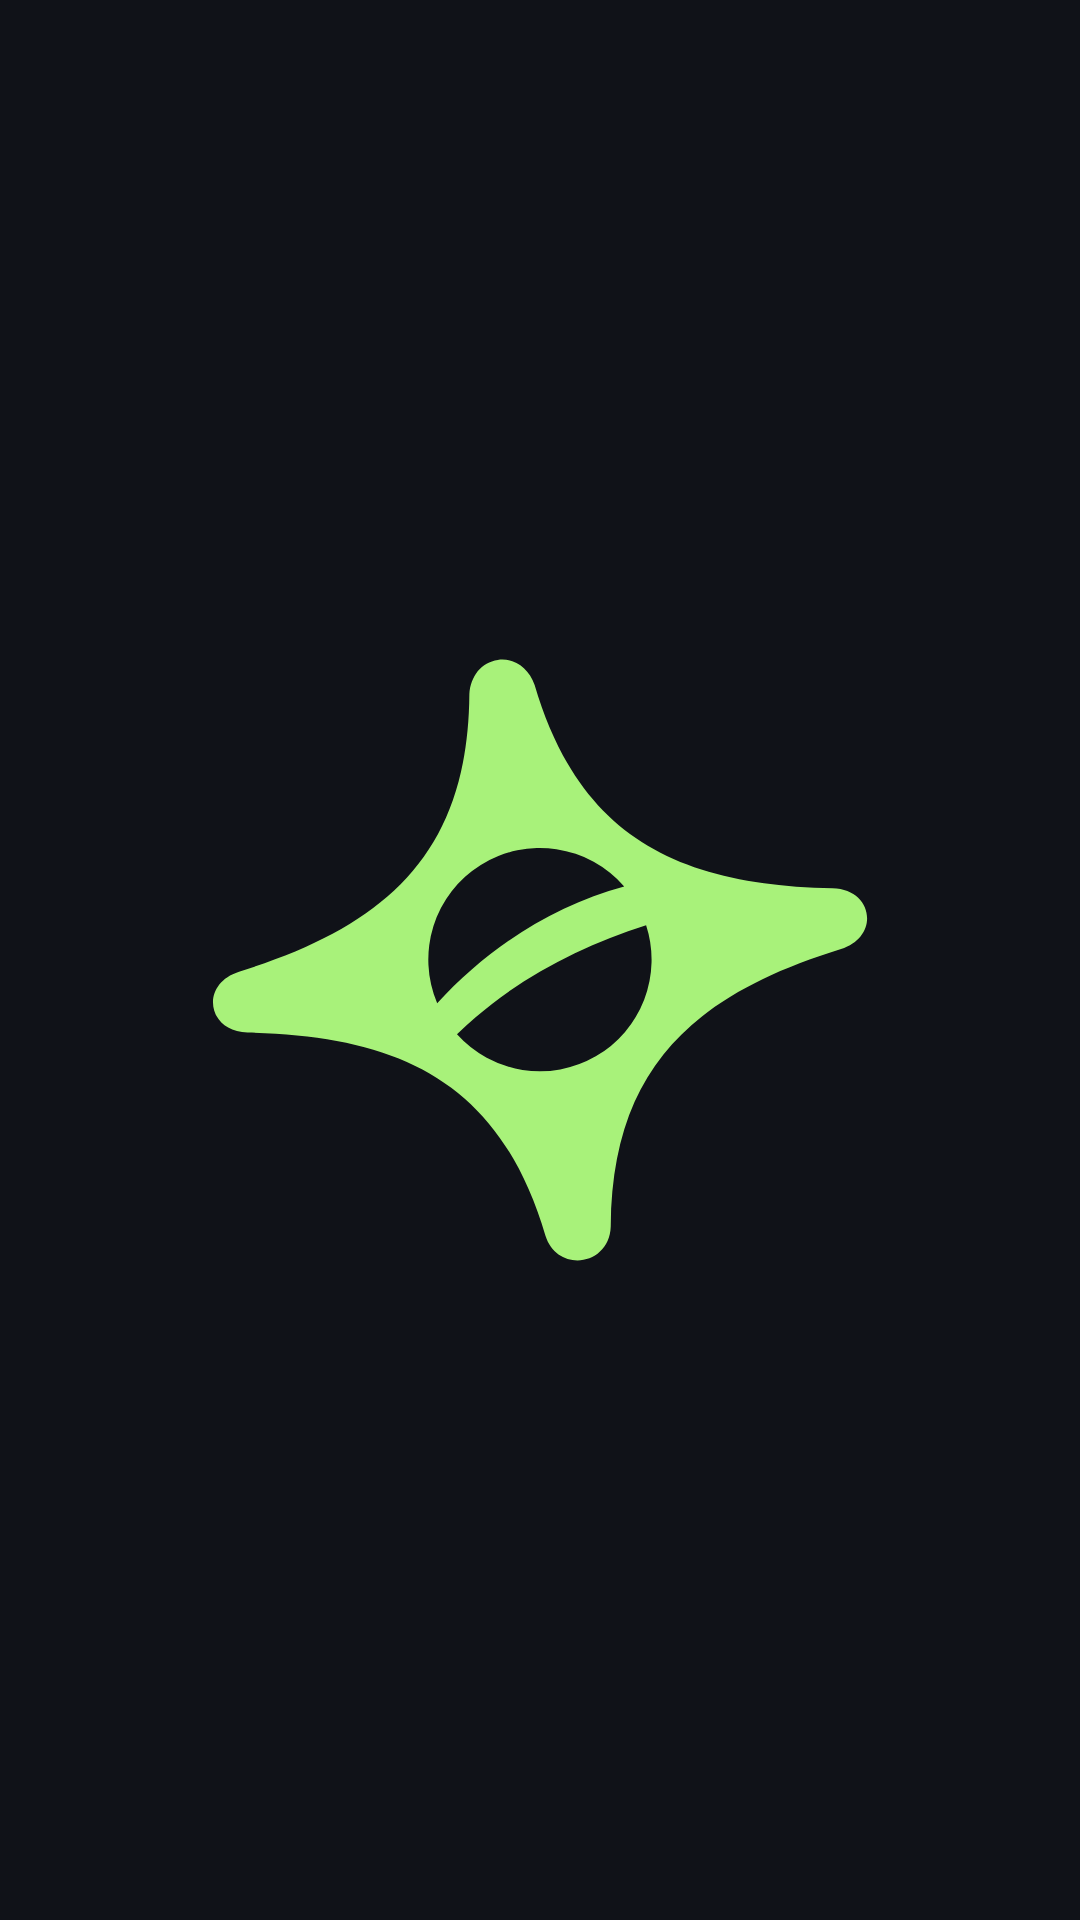
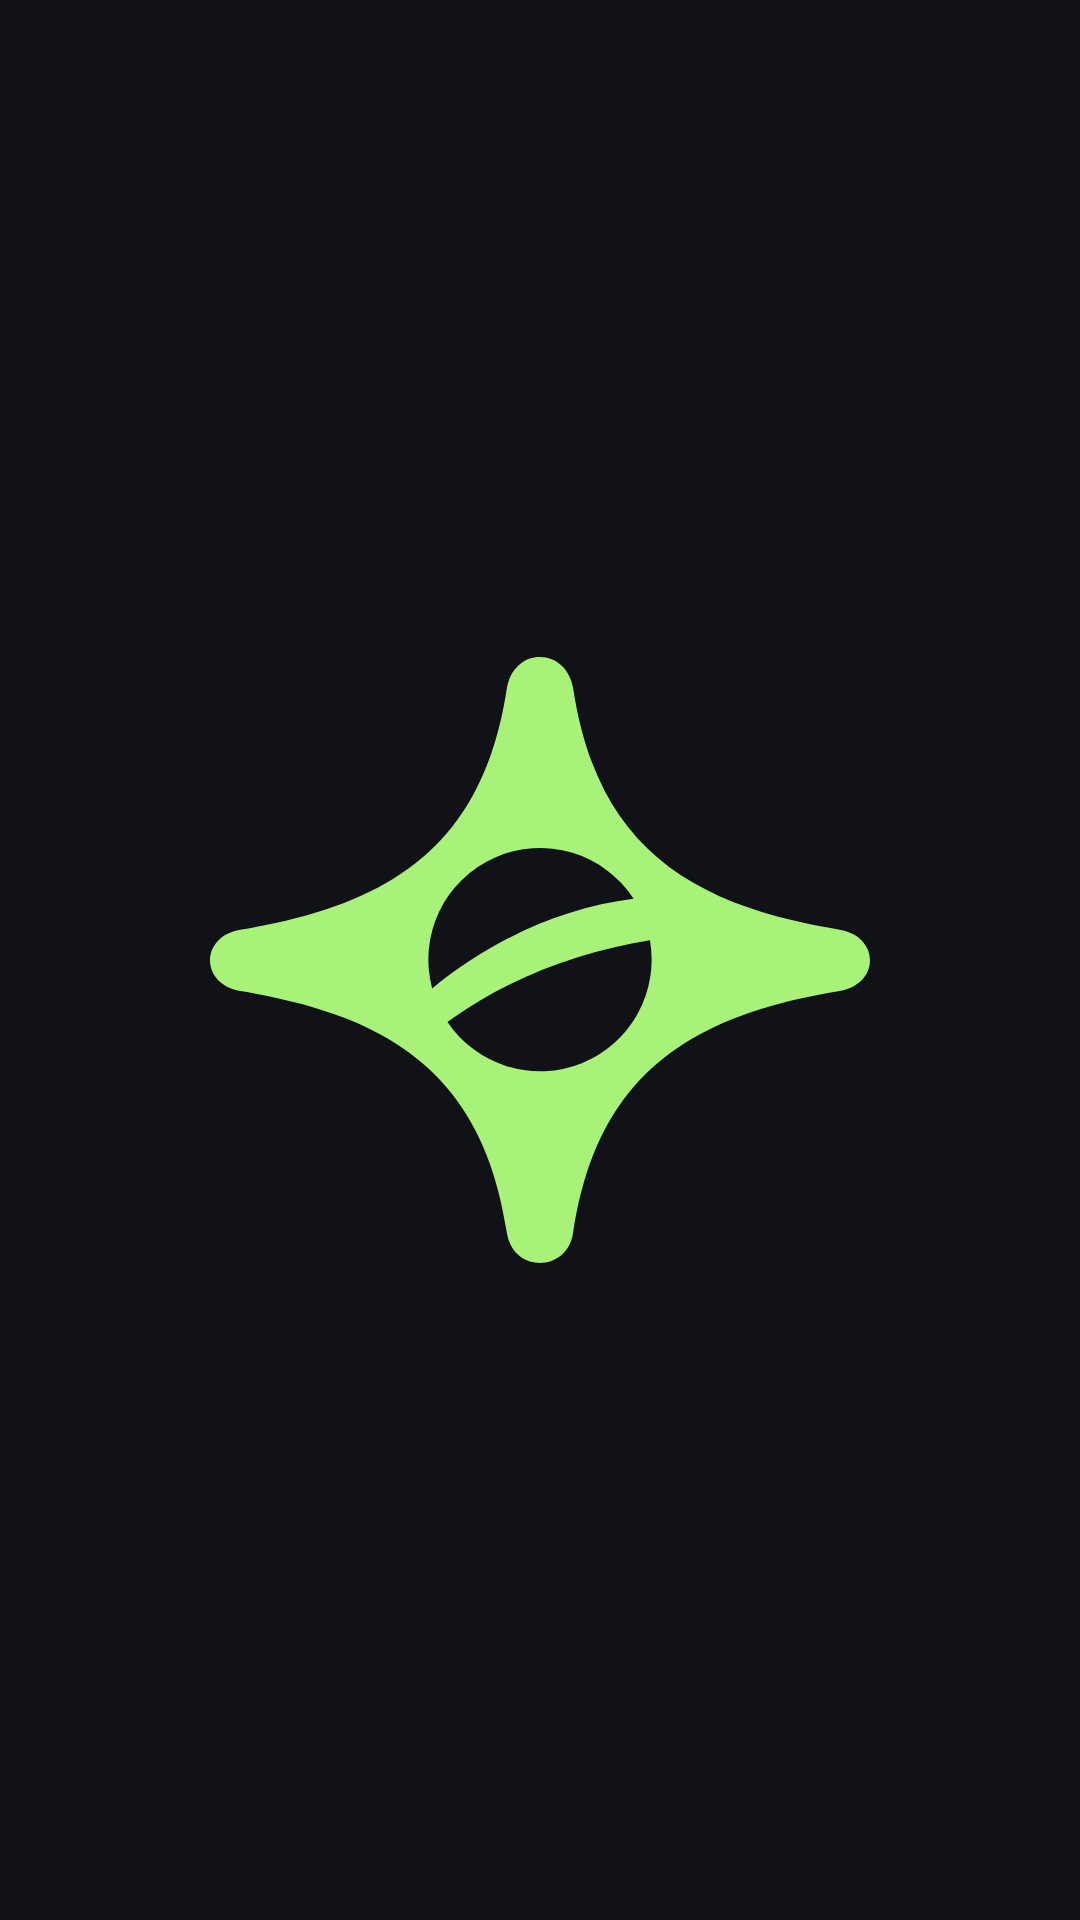
Pack de perfil: estrela sempre na posição oficial, sem rotação
Claude-Session: https://claude.ai/code/session_01JSPShJUPDW1vueXQWvygsd

diff --git a/projects/02-perfis-redes/gera.py b/projects/02-perfis-redes/gera.py
@@ -19,10 +19,11 @@ ESTRELA_D = ("M 500 95 C 522 95 539 111 544 135 C 575 344 696 426 900 459 C 954 
              "M 646.736 473.126 A 149 149 0 0 1 376.456 582.319 C 457 523 552 489 646.736 473.126 Z")
 # Caixa da forma: x 59.5..940.5, y 95..904 -> centro (500, 499.5), 881 x 809.
 
-def estrela(cx, cy, larg, cor, rot=0, op=1):
-    """Estrela centrada em (cx, cy) com largura 'larg'."""
+def estrela(cx, cy, larg, cor, op=1):
+    """Estrela centrada em (cx, cy) com largura 'larg'. Sempre na posicao do SVG oficial:
+    a marca nao se gira (correcao do usuario, 10/nov/2026)."""
     s = larg / 881
-    return (f'<g transform="translate({cx} {cy}) rotate({rot}) scale({s}) translate(-500 -499.5)" opacity="{op}">'
+    return (f'<g transform="translate({cx} {cy}) scale({s}) translate(-500 -499.5)" opacity="{op}">'
             f'<path d="{ESTRELA_D}" fill="{cor}" fill-rule="evenodd"/></g>')
 
 def arcos(cx, cy, r0, passo, n, cor, op, larg=2):
@@ -63,7 +64,7 @@ peca("instagram-avatar", A, A, pagina(A, A, ACE,
      arcos(A, A, 260, 70, 12, FLO, .16) + estrela(540, 540, 600, GRA)))
 # TikTok: grafite, estrela verde-limao levemente girada, topografia em limao.
 peca("tiktok-avatar", A, A, pagina(A, A, GRA,
-     topografia(A, A, ACE, .10, n=12, passo=52, x0=.05) + estrela(540, 540, 600, ACE, rot=-8)))
+     topografia(A, A, ACE, .10, n=12, passo=52, x0=.05) + estrela(540, 540, 600, ACE)))
 # LinkedIn: floresta, estrela branca, grade tecnica. Logo da pagina: 400x400.
 L = 400
 peca("linkedin-logo", L, L, pagina(L, L, FLO,
@@ -85,13 +86,13 @@ p{font-weight:400;font-size:15px;line-height:1.3}
 peca("linkedin-capa", W, H, pagina(W, H, GRA,
      grade(W, H, 24, SUP, .045, 1)
      + painel(FLO, ACE, .14)
-     + estrela(1010, 96, 250, ACE, rot=-8),
+     + estrela(1010, 96, 250, ACE),
      f"""<div class="txt"><h1 style="color:{SUP}">Toda a sua operação<br>de <span class="pil" style="background:{ACE};color:{GRA}">licitações</span></h1>
 <p style="color:#B8C5BC">Venda para o governo. Saiba o que fazer em cada etapa.</p></div>""", CSS_CAPA), escalas=(1, 2))
 # Variante de lancamento, para trocar ate 19/dez.
 peca("linkedin-capa-lancamento", W, H, pagina(W, H, ACE,
      painel(GRA, ACE, .16)
-     + estrela(1010, 96, 250, ACE, rot=-8),
+     + estrela(1010, 96, 250, ACE),
      f"""<div class="txt"><h1 style="color:{GRA}">30 dias para usar a Licit.<br>Sem cartão.</h1>
 <p style="color:#1F3A2C">Para quem começa até 19 de dezembro. <b style="font-weight:600">profissiolicit.ai</b></p></div>""", CSS_CAPA), escalas=(1, 2))
 
@@ -105,7 +106,7 @@ def destaque(nome, fundo, desenho, borda):
 TXT = lambda t, cor, tam, peso=500, dy=0: (f'<text x="{CX}" y="{CY+dy}" text-anchor="middle" dominant-baseline="central" '
       f'font-family="Sora" font-weight="{peso}" font-size="{tam}" letter-spacing="-0.035em" fill="{cor}">{t}</text>')
 
-destaque("licit", GRA, estrela(CX, CY, 660, ACE, rot=-8), ACE)
+destaque("licit", GRA, estrela(CX, CY, 660, ACE), ACE)
 destaque("oferta", ACE, TXT("30", GRA, 470, dy=-70) + TXT("dias", GRA, 150, dy=200)
          + estrela(CX + 300, CY - 280, 120, FLO), GRA)
 passos = "".join(
@@ -138,11 +139,11 @@ def painel_fb(cor, cor_arco, op):
     return (f'<clipPath id="pf"><polygon points="{pts}"/></clipPath><polygon points="{pts}" fill="{cor}"/>'
             f'<g clip-path="url(#pf)">{arcos(1420, 462, 150, 70, 12, cor_arco, op, 2)}</g>')
 peca("facebook-capa", FW, FH, pagina(FW, FH, GRA,
-     grade(FW, FH, 48, SUP, .045, 1.5) + painel_fb(FLO, ACE, .14) + estrela(1420, 462, 760, ACE, rot=-8),
+     grade(FW, FH, 48, SUP, .045, 1.5) + painel_fb(FLO, ACE, .14) + estrela(1420, 462, 760, ACE),
      f"""<div class="txt"><h1 style="color:{SUP}">Toda a sua operação<br>de <span class="pil" style="background:{ACE};color:{GRA}">licitações</span></h1>
 <p style="color:#B8C5BC">Venda para o governo. Saiba o que fazer em cada etapa.</p></div>""", CSS_FB))
 peca("facebook-capa-lancamento", FW, FH, pagina(FW, FH, ACE,
-     painel_fb(GRA, ACE, .16) + estrela(1420, 462, 760, ACE, rot=-8),
+     painel_fb(GRA, ACE, .16) + estrela(1420, 462, 760, ACE),
      f"""<div class="txt"><h1 style="color:{GRA}">30 dias para usar<br>a Licit. Sem cartão.</h1>
 <p style="color:#1F3A2C">Para quem começa até 19 de dezembro. <b style="font-weight:600">profissiolicit.ai</b></p></div>""", CSS_FB))
 # Avatar do Facebook: o unico em fundo claro, com a estrela no degrade oficial (preto para floresta).

diff --git a/CLAUDE.md b/CLAUDE.md
@@ -50,6 +50,7 @@ O material de produto disponível são **oito capturas de tela de set/2026**. El
 - **Contraste que decide composição**: acento sobre grafite 13,95:1 e sobre floresta 8,75:1 (texto e destaque); **acento sobre branco 1,34:1, nunca como texto em fundo claro**; floresta sobre grafite 1,59:1, só superfície. Em fundo claro o destaque é a floresta.
 - **Tipografia**: **Sora** (SIL OFL 1.1, `assets/fonts/`), títulos **500**, corpo **400**, **600** só em ênfase pontual; tracking do título `-0.035em`. Nada de display caps.
 - **Três assinaturas, cada uma com seu papel**: (1) institucional, **Profissio Licit com o P oficial**, sem estrela; (2) produto, **estrela + Licit**; (3) ícone, avatar e favicon, **estrela isolada**. Nunca P + estrela juntos, nunca o P isolado como ícone da Licit. Usar sempre os SVG de `assets/marca/logos/`; nunca redigitar o nome nem redesenhar a estrela. Área livre de 1/4 da altura. Em fundo escuro, versão branca; o degradê (preto para floresta) é só da estrela e só em fundo claro.
+- **A estrela nunca se gira** (correção do usuário em 10/nov/2026, sobre o pack de perfil: "corrija as estrelas que você fez tortas, ela não se aplica assim"). Sempre na posição do SVG oficial; pode mudar de cor, de tamanho e sangrar pelo canto, nunca inclinar. O `estrela()` do `projects/02-perfis-redes/gera.py` nem aceita mais rotação.
 - **A estrela não é selo**: não usar como estado de sucesso, certificação, vínculo com governo ou garantia.
 - **Fundos**: plano chapado onde há leitura; geometria discreta (grade técnica, planos, topografia, arcos) só em área de marca. Os dez fundos do kit estão em `assets/marca/fundos/`. **Sem brilho difuso, sem textura atrás de dado.**
 - **Motion do sistema**: 120, 180 e 240 ms, curva `cubic-bezier(0.2, 0, 0, 1)`. Ritmo sóbrio.
@@ -233,4 +234,4 @@ Componentes prontos no Remotion: `Slide` (carrossel 4:5, tipos `capa`, `etapa`, 
 - **09/nov/2026 (segunda sessão)**: o usuário cadastrou as chaves, criou a marca no Metricool (blog_id 7994045) e apontou a pasta de identidade no Drive. **Marca lida na fonte e registrada**: categoria, descrição institucional, público, voz, limites de mensagem, paleta Floresta Tech, Sora e as três assinaturas. Logos, fundos, favicon e a Sora entraram em `assets/`; tokens e diretrizes espelhados em `design-system/fonte/`. O Remotion trocou o provisório cinza pela identidade real (três temas, duas assinaturas, três formatos). Correção do `headless_shell` levada aos irmãos por PR: `suportezv/profissioai-conteudo#3` e `suportezv/profecia-conteudo#4`. A referência `@licitacertabr` não pôde ser lida (login do Instagram, sem token da Meta).
 - **09 e 10/nov/2026**: site `profissiolicit.ai` lido (posicionamento mais amplo que o kit: todos os setores, novata e experiente, CTAs definidos). Editorias aprovadas pelo usuário, com o blog ganhando lançamento de artigo a pedido dele. Planejamento do mês 1 escrito como doc e **refeito para estreia em 10/nov** quando o usuário corrigiu a data. O Chrome do usuário não é alcançável de sessão na nuvem: a referência `@licitacertabr` foi deixada de lado por decisão dele.
 - **10/nov/2026**: peças de estreia feitas duas vezes. A versão 1 foi recusada por ser "clean" e "institucional demais" (regra nova acima); a versão 2 tem gancho, telas do produto, numerais gigantes, bloco verde e vídeo com movimento e efeitos. Oferta confirmada: 30 dias, sem cartão, até 19/dez. Peças em `projects/01-estreia/`. Carrosséis aprovados em 10/nov; vídeo aprovado na versão 4 (transição em camadas, não cubo). **As três peças agendadas no Metricool para 10/nov às 10:00, 10:15 e 10:30** (Instagram, TikTok e LinkedIn em post separado; ids e detalhes no `PECAS.md` do projeto), conferidas com `getScheduledPosts`. Mídia pela pasta pública do Drive `1lC4CMr_ALTyfx88vECA632KcBnxH9fLG` por URL direta; o conector do Drive não sobe arquivo acima de ~3,1 MB, então vídeo o usuário sobe à mão.
-- **10/nov/2026 (pack de perfil)**: avatares e capas das três redes em `assets/redes/` (gerador `projects/02-perfis-redes/`). Pedido do usuário: estrela em todos, cor e fundo diferentes por rede, "brincar mais com a marca". Instagram em verde-limão com estrela grafite e arcos; TikTok em grafite com estrela limão girada e topografia; LinkedIn em floresta com estrela branca e grade. Capa do LinkedIn 1128x191 (exportada em 2x) com o título do site e uma variante da oferta até 19/dez. Instagram e TikTok não têm capa de perfil: no Instagram entram seis capas de destaque (licit, oferta, etapas, primeira, blog, perguntas). **Facebook pedido pelo usuário no mesmo dia**: capa em 1640x924 (computador 820x312, celular 640x360), texto no alto da faixa central por causa da foto da página, e avatar em fundo claro com a estrela no degradê oficial. O Facebook **não está conectado no Metricool** da marca: conectar para agendar lá. Aguardando aprovação.
+- **10/nov/2026 (pack de perfil)**: avatares e capas das três redes em `assets/redes/` (gerador `projects/02-perfis-redes/`). Pedido do usuário: estrela em todos, cor e fundo diferentes por rede, "brincar mais com a marca". Instagram em verde-limão com estrela grafite e arcos; TikTok em grafite com estrela limão e topografia (estrelas tortas corrigidas no mesmo dia); LinkedIn em floresta com estrela branca e grade. Capa do LinkedIn 1128x191 (exportada em 2x) com o título do site e uma variante da oferta até 19/dez. Instagram e TikTok não têm capa de perfil: no Instagram entram seis capas de destaque (licit, oferta, etapas, primeira, blog, perguntas). **Facebook pedido pelo usuário no mesmo dia**: capa em 1640x924 (computador 820x312, celular 640x360), texto no alto da faixa central por causa da foto da página, e avatar em fundo claro com a estrela no degradê oficial. O Facebook **não está conectado no Metricool** da marca: conectar para agendar lá. Aguardando aprovação.

diff --git a/assets/redes/LEIA-ME.md b/assets/redes/LEIA-ME.md
@@ -1,6 +1,6 @@
 # Pack de perfil das redes (10/nov/2026)
 
-Gerado por `projects/02-perfis-redes/gera.py` (HTML + Chromium). A estrela é o caminho oficial de `assets/marca/logos/`, só recolorida. Cores só da paleta Floresta Tech.
+Gerado por `projects/02-perfis-redes/gera.py` (HTML + Chromium). A estrela é o caminho oficial de `assets/marca/logos/`, só recolorida, sempre na posição original (a estrela nunca se gira). Cores só da paleta Floresta Tech.
 
 | Arquivo | Onde vai | Formato |
 |---|---|---|
@@ -17,4 +17,4 @@ Gerado por `projects/02-perfis-redes/gera.py` (HTML + Chromium). A estrela é o 
 - Instagram e TikTok não têm capa de perfil; no Instagram o que faz esse papel são os destaques.
 - Na capa do LinkedIn o texto começa em 252 px (escala 1x) para não ficar sob o logo, que cobre o canto inferior esquerdo no desktop.
 - No Facebook o texto fica no alto da faixa central, porque a foto da página cobre o canto inferior esquerdo da capa no computador e no celular.
-- Cada rede tem cor própria: Instagram em verde-limão com estrela grafite, TikTok em grafite com estrela limão girada, LinkedIn em floresta com estrela branca, Facebook em superfície clara com a estrela no degradê oficial (o único fundo claro do pack).
+- Cada rede tem cor própria: Instagram em verde-limão com estrela grafite, TikTok em grafite com estrela limão, LinkedIn em floresta com estrela branca, Facebook em superfície clara com a estrela no degradê oficial (o único fundo claro do pack).
